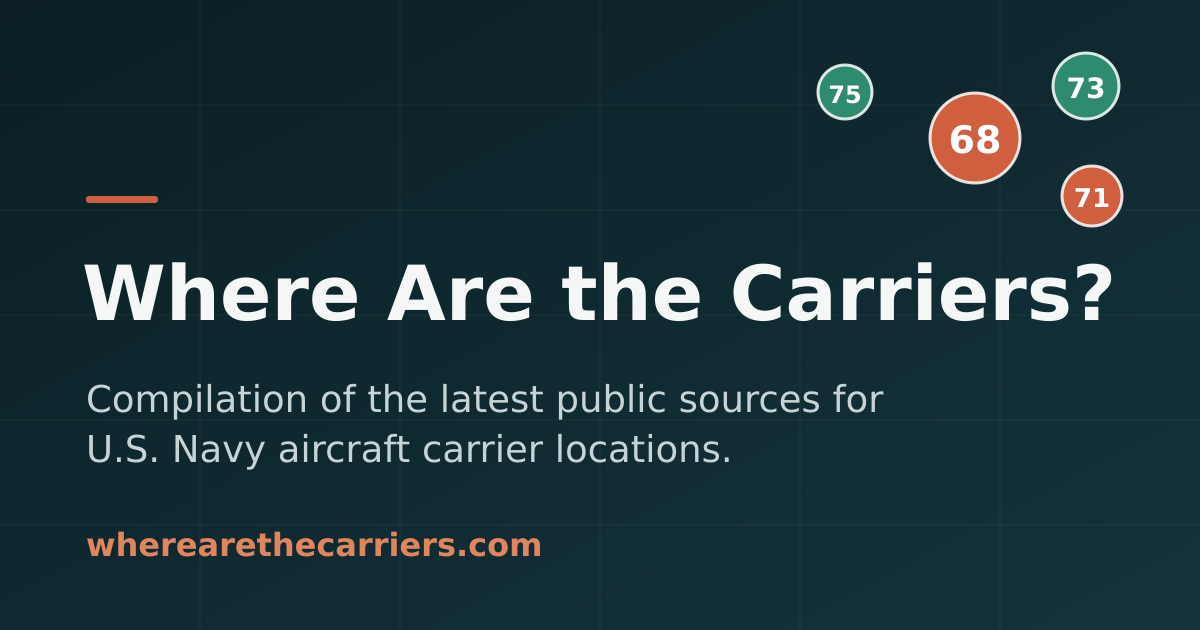
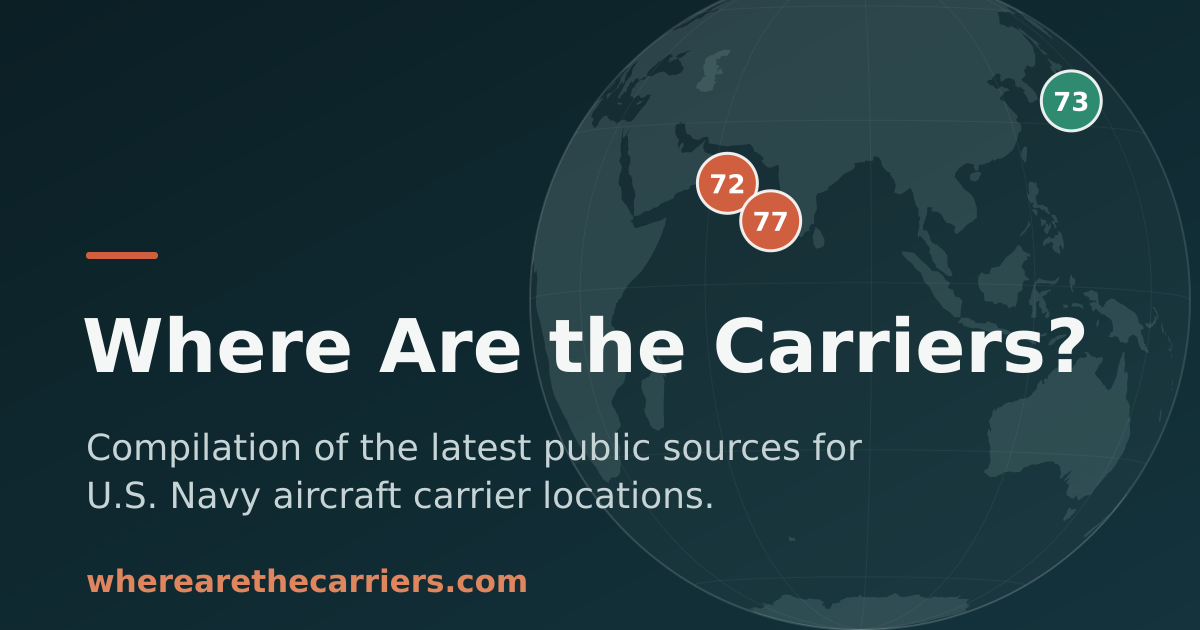
Replace OG card with Indo-Pacific globe from real coastline data
Renders the share card as an orthographic globe built from the Natural
Earth coastlines in scripts/land-polygons.json, with carriers at true
positions (CVN-72/77 Arabian Sea, CVN-73 Yokosuka). Far-side coastline
points are clamped to the rim so land is trimmed along the curve instead
of cutting a chord across the disc. Adds scripts/gen-og-image.py.

diff --git a/scripts/gen-og-image.py b/scripts/gen-og-image.py
@@ -1,0 +1,139 @@
+#!/usr/bin/env python3
+# Generates the Open Graph share card (docs/og-image.png) as an orthographic globe
+# built from the real Natural Earth coastlines in scripts/land-polygons.json, with a
+# representative set of carrier markers at true lat/lon. Run from the repo root:
+#
+#   python3 scripts/gen-og-image.py
+#   inkscape scripts/og-image.svg --export-type=png \
+#     --export-filename=docs/og-image.png -w 1200 -h 630
+#
+# The card is a static illustration; it is not regenerated from live positions.
+import json, math
+
+W, H = 1200, 630
+# Globe placement: large, sits to the right, vertically centered.
+CX, CY, R = 860, 300, 330
+LON0, LAT0 = 88.0, -3.0  # center: Indian Ocean, showing Mideast / India / SE Asia / Japan
+
+d = json.load(open('scripts/land-polygons.json'))
+polys = d['polygons']
+
+l0 = math.radians(LON0)
+p0 = math.radians(LAT0)
+
+def project(lon, lat):
+    lam = math.radians(lon); phi = math.radians(lat)
+    cosc = math.sin(p0)*math.sin(phi) + math.cos(p0)*math.cos(phi)*math.cos(lam-l0)
+    if cosc < 0:
+        return None  # far side of globe
+    x = CX + R*math.cos(phi)*math.sin(lam-l0)
+    y = CY - R*(math.cos(p0)*math.sin(phi) - math.sin(p0)*math.cos(phi)*math.cos(lam-l0))
+    return (x, y)
+
+def project_clamp(lon, lat):
+    # Like project(), but instead of dropping far-side points, clamp them onto the
+    # globe's rim at the same azimuth. This lets filled land be trimmed along the
+    # curved limb instead of cutting a straight chord across the disc.
+    lam = math.radians(lon); phi = math.radians(lat)
+    dl = lam - l0
+    cosc = math.sin(p0)*math.sin(phi) + math.cos(p0)*math.cos(phi)*math.cos(dl)
+    xe = math.cos(phi)*math.sin(dl)
+    ye = math.cos(p0)*math.sin(phi) - math.sin(p0)*math.cos(phi)*math.cos(dl)
+    if cosc >= 0:
+        return (CX + R*xe, CY - R*ye, True)
+    norm = math.hypot(xe, ye) or 1e-9
+    return (CX + R*xe/norm, CY - R*ye/norm, False)
+
+# Build filled land rings; skip rings entirely on the far side.
+land_rings = []
+for poly in polys:
+    for ring in poly:
+        pts = []
+        any_front = False
+        for lon, lat in ring:
+            x, y, front = project_clamp(lon, lat)
+            if front:
+                any_front = True
+            pts.append((x, y))
+        if any_front and len(pts) > 2:
+            land_rings.append(pts)
+
+def path_d(seg):
+    return "M" + " L".join(f"{x:.1f},{y:.1f}" for x, y in seg)
+
+# Graticule (meridians + parallels) for a subtle globe feel.
+grat = []
+for lon in range(-180, 181, 30):
+    seg = []
+    for lat in range(-90, 91, 3):
+        pt = project(lon, lat)
+        if pt is None:
+            if len(seg) > 1: grat.append(seg)
+            seg = []
+        else: seg.append(pt)
+    if len(seg) > 1: grat.append(seg)
+for lat in range(-60, 61, 30):
+    seg = []
+    for lon in range(-180, 181, 3):
+        pt = project(lon, lat)
+        if pt is None:
+            if len(seg) > 1: grat.append(seg)
+            seg = []
+        else: seg.append(pt)
+    if len(seg) > 1: grat.append(seg)
+
+# Carrier markers at true lat/lon (only those on the visible hemisphere render).
+markers = [
+    ("68", -75, 18, "#d05f3f"),  # Caribbean
+    ("75", 29, 34, "#d05f3f"),   # E. Mediterranean
+    ("71", -40, 36, "#d05f3f"),  # W. Atlantic
+    ("73", 12, 8, "#2f8b70"),    # placed over Gulf of Guinea for spacing (decorative)
+]
+
+svg = []
+svg.append(f'<svg xmlns="http://www.w3.org/2000/svg" width="{W}" height="{H}" viewBox="0 0 {W} {H}">')
+svg.append('<defs><linearGradient id="bg" x1="0" y1="0" x2="1" y2="1">'
+           '<stop offset="0" stop-color="#0b1f25"/><stop offset="1" stop-color="#14333c"/></linearGradient>'
+           f'<clipPath id="disc"><circle cx="{CX}" cy="{CY}" r="{R}"/></clipPath></defs>')
+svg.append(f'<rect width="{W}" height="{H}" fill="url(#bg)"/>')
+# sphere disc (slightly lighter than bg)
+svg.append(f'<circle cx="{CX}" cy="{CY}" r="{R}" fill="#ffffff" fill-opacity="0.035"/>')
+# graticule
+svg.append('<g stroke="#ffffff" stroke-opacity="0.05" stroke-width="1" fill="none">')
+for seg in grat: svg.append(f'<path d="{path_d(seg)}"/>')
+svg.append('</g>')
+# land (clipped to the disc; rings closed cleanly along the rim)
+svg.append('<g clip-path="url(#disc)" fill="#9fc3c0" fill-opacity="0.16">')
+for ring in land_rings: svg.append(f'<path d="{path_d(ring)}Z"/>')
+svg.append('</g>')
+# limb outline
+svg.append(f'<circle cx="{CX}" cy="{CY}" r="{R}" fill="none" stroke="#ffffff" stroke-opacity="0.12" stroke-width="2"/>')
+
+# accent rule + text (left), shifted down so the upper area is free for markers
+svg.append('<rect x="86" y="252" width="72" height="7" rx="3" fill="#d05f3f"/>')
+svg.append('<text x="82" y="372" font-family="DejaVu Sans, Arial, sans-serif" font-size="74" fill="#f4f7f6" font-weight="700">Where Are the Carriers?</text>')
+svg.append('<text x="86" y="460" font-family="DejaVu Sans, Arial, sans-serif" font-size="36" fill="#c7d4d6">Compilation of the latest public sources for</text>')
+svg.append('<text x="86" y="508" font-family="DejaVu Sans, Arial, sans-serif" font-size="36" fill="#c7d4d6">U.S. Navy aircraft carrier locations.</text>')
+svg.append('<text x="86" y="592" font-family="DejaVu Sans, Arial, sans-serif" font-size="31" fill="#e0865f" font-weight="600">wherearethecarriers.com</text>')
+
+# carrier markers at their true positions (matches current live data)
+# CVN-72 & CVN-77 in the Arabian Sea (deployed/orange), CVN-73 at Yokosuka (port/teal).
+geo_markers = [
+    ("72", 63.0, 18.0, "#d05f3f"),       # Arabian Sea
+    ("77", 72.0, 11.0, "#d05f3f"),       # Arabian Sea (nudged for spacing)
+    ("73", 139.67, 35.28, "#2f8b70"),    # Yokosuka, Japan
+]
+svg.append('<g font-family="DejaVu Sans, Arial, sans-serif" font-weight="700" fill="#ffffff" text-anchor="middle">')
+for label, lon, lat, color in geo_markers:
+    pt = project(lon, lat)
+    if pt is None:
+        continue
+    x, y = pt
+    r = 30
+    svg.append(f'<circle cx="{x:.1f}" cy="{y:.1f}" r="{r}" fill="{color}" stroke="#ffffff" stroke-opacity="0.9" stroke-width="3"/>')
+    svg.append(f'<text x="{x:.1f}" y="{y+10:.1f}" font-size="26">{label}</text>')
+svg.append('</g>')
+
+svg.append('</svg>')
+open('scripts/og-image.svg', 'w').write("\n".join(svg))
+print("wrote scripts/og-image.svg with", len(land_rings), "land rings")
